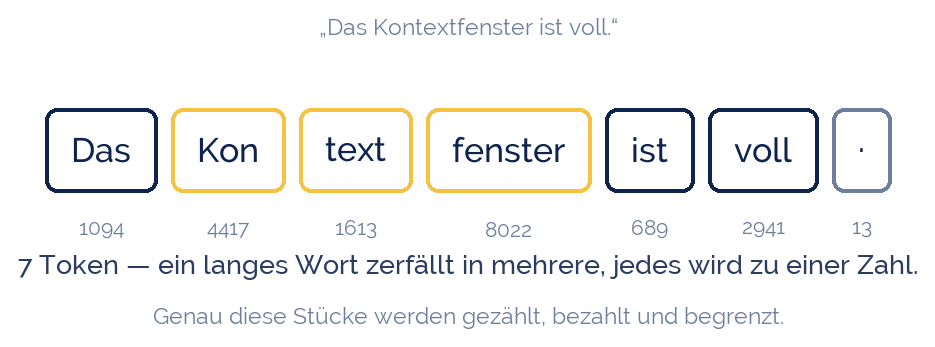
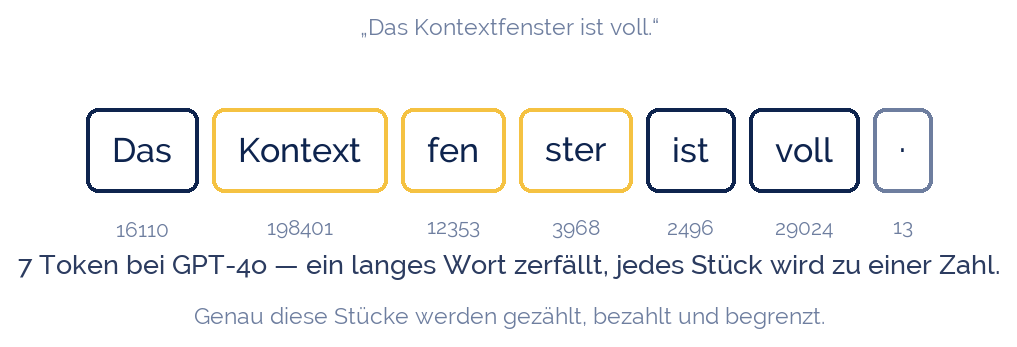
ai-begriffe: the token slide shows GPT-4o's real split and vocabulary ids
'Kontextfenster' was cut by hand into Kon|text|fenster with made-up numbers.
Checked against OpenAI's public o200k_base vocabulary: Kontext|fen|ster,
ids 16110 198401 12353 3968 2496 29024 13. Still seven tokens.

diff --git a/tools/pptx/ai_diagrams.py b/tools/pptx/ai_diagrams.py
@@ -228,9 +228,12 @@ def token(path, W=1420, H=480):
     f_small = font("Raleway-Regular.ttf", 23)
     f_num = font("Raleway-Regular.ttf", 21)
 
-    toks = [("Das", NAVY), ("Kon", ORA), ("text", ORA), ("fenster", ORA),
+    # The real split and vocabulary ids of GPT-4o's tokenizer (o200k_base), checked
+    # 2026-09-23 with OpenAI's public vocabulary file - not an invented example.
+    # GPT-4 (cl100k_base) would even make 8: Das|Kont|ext|fen|ster|ist|voll|.
+    toks = [("Das", NAVY), ("Kontext", ORA), ("fen", ORA), ("ster", ORA),
             ("ist", NAVY), ("voll", NAVY), (".", MUTED)]
-    ids = ["1094", "4417", "1613", "8022", "689", "2941", "13"]
+    ids = ["16110", "198401", "12353", "3968", "2496", "29024", "13"]
 
     pad, gap, y = 26, 14, 220
     widths = []
@@ -246,7 +249,7 @@ def token(path, W=1420, H=480):
         x += w + gap
 
     centered(d, "„Das Kontextfenster ist voll.“", W / 2, 140, f_small, MUTED)
-    centered(d, "7 Token — ein langes Wort zerfällt in mehrere, jedes wird zu einer Zahl.",
+    centered(d, "7 Token bei GPT-4o — ein langes Wort zerfällt, jedes Stück wird zu einer Zahl.",
              W / 2, 380, font("Raleway-Medium.ttf", 27), BODY)
     centered(d, "Genau diese Stücke werden gezählt, bezahlt und begrenzt.",
              W / 2, 430, f_small, MUTED)
